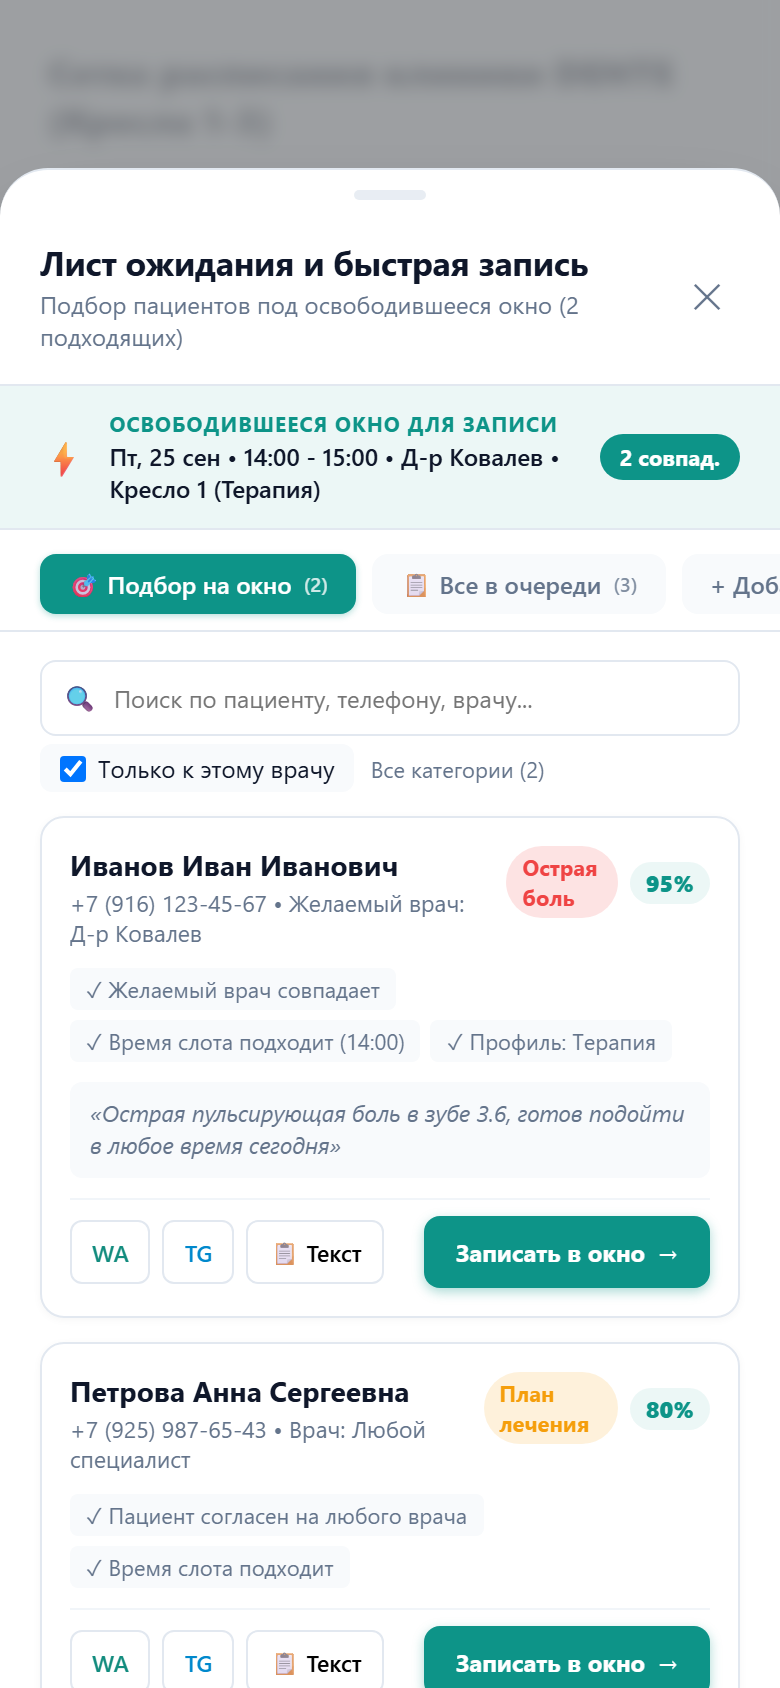
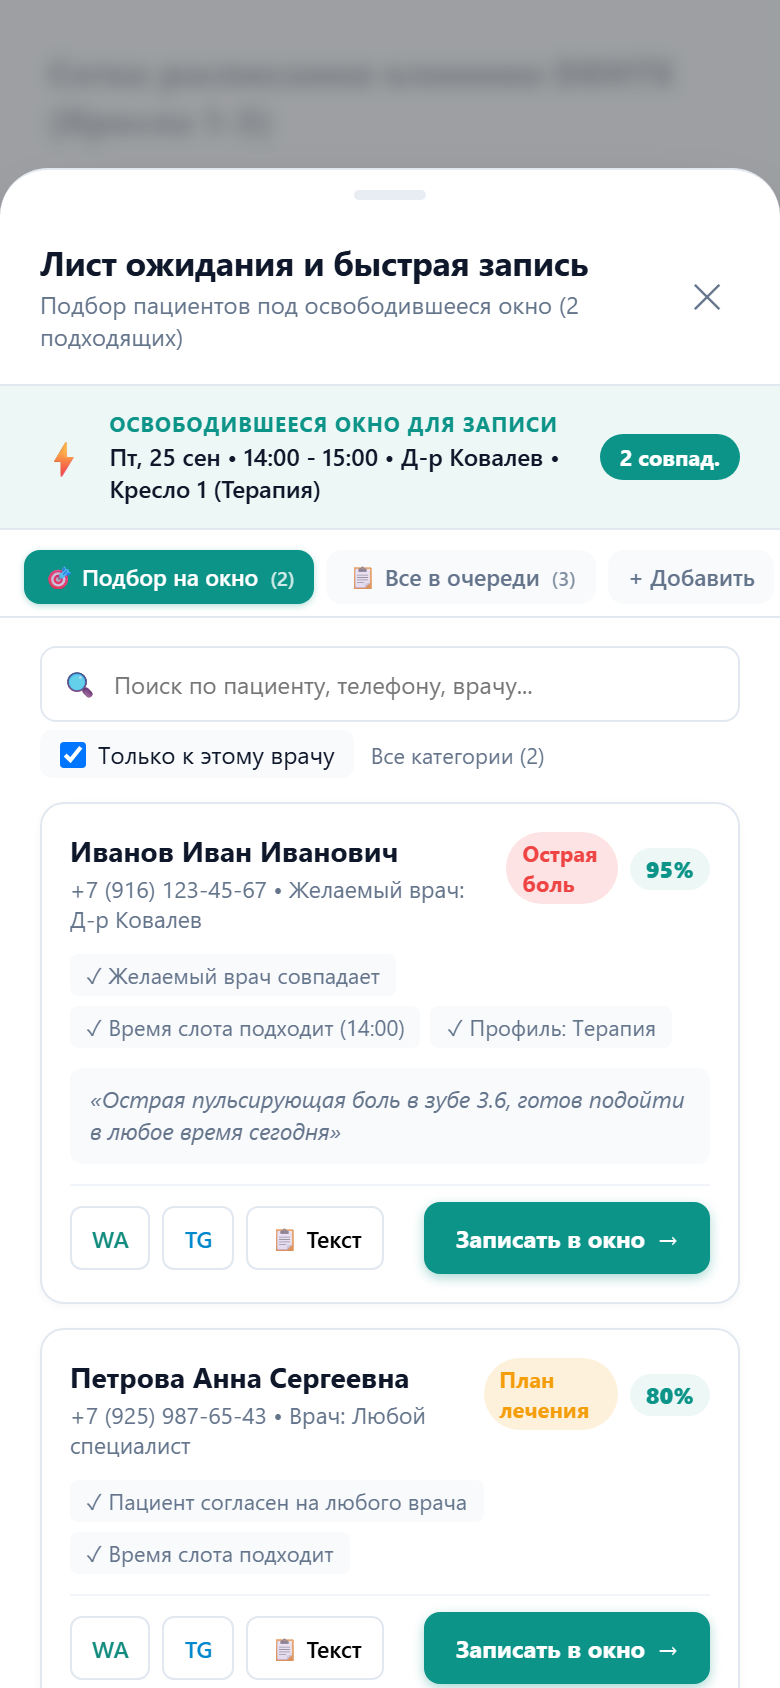
feat(voice): unify dictation with useUnifiedDictation, wire header voice search and 8-state proof
WHY:
- Eliminate ad-hoc raw webkitSpeechRecognition implementations scattered across visit and chairside components that bypassed noise-filtering, RMS analysis, and fallback handlers.
- Wire ubiquitous voice input into global search and Spotlight Command Hub (Ctrl+K) for 1-click clinical routing and dictation anywhere in CRM.
- Decompose and prune bloated SpeechHelpers.ts monolith down to sweet spot <=380 lines per Mandate 8b.
- Provide definitive Red Team 4-state visual proofs for both Spotlight Command Hub and EMK complaints visit section with symmetric 1-click norm controls.

WHAT:
- apps/web/src/utils/SpeechHelpers.ts: pruned non-speech artifacts (CT implants, MPR projections, tax rates) reducing file from 588 to 383 lines.
- apps/web/src/components/visit/emk/EmkComplaintsSection.tsx: replaced ad-hoc speech recognition with useUnifiedDictation({ context: "visit" }); added native symmetric '✓ Жалоб нет' button adhering to Mandate 8e norm filling and fixing touch defect.
- apps/web/src/components/visit/mobileChairside/useChairsideVisitWorkspace.ts: wired useUnifiedDictation for mobile chairside workspace.
- apps/web/src/workspaceShellModules/topBarModules/WorkspaceTopBarCommandHub.tsx: wired btn-header-voice-search button with audio visual pulse indicator and intent routing ('касса', 'расписание', 'пациенты', 'планы', 'настройки', clinical nosology).
[…]

diff --git a/apps/web/src/components/shift/doctorShiftClose/renderDoctorShiftStatementHtml.ts b/apps/web/src/components/shift/doctorShiftClose/renderDoctorShiftStatementHtml.ts
@@ -71,11 +71,11 @@ body { font-family: -apple-system, BlinkMacSystemFont, "Segoe UI", Roboto, sans-
 <tr><td>Списание с лицевых депозитов пациентов</td><td class="num">${depositRub.toLocaleString("ru-RU")} ₽</td></tr>
 <tr style="background: #f8fafc; font-weight: bold;"><td>Итого сданная касса:</td><td class="num">${effectiveTotalCashRub.toLocaleString("ru-RU")} ₽</td></tr>
 </tbody></table>
-<h3>3. Сверка кассы 54-ФЗ и фискальные реквизиты</h3>
+<h3>3. Сверка кассы и фискальные реквизиты</h3>
 <table class="table"><thead><tr><th>Реквизит / Параметр</th><th style="width: 220px; text-align: right;">Значение</th></tr></thead><tbody>
 <tr><td>Кассовый аппарат (ККТ)</td><td class="num">${cashboxName}</td></tr>
 <tr><td>Фискальный Z-отчёт с гашением</td><td class="num">${fiscalDocNumber}</td></tr>
-<tr><td>Реквизиты фискализации (54-ФЗ)</td><td class="num">ФД: 00042 • ФПД: 3829104812 • ФН: 996044030</td></tr>
+<tr><td>Реквизиты фискализации</td><td class="num">ФД: 00042 • ФПД: 3829104812 • ФН: 996044030</td></tr>
 <tr><td>Учётный остаток наличных (по чекам)</td><td class="num">${cashRub.toLocaleString("ru-RU")} ₽</td></tr>
 <tr><td>Фактический остаток наличных (в ящике)</td><td class="num">${countedCashRub.toLocaleString("ru-RU")} ₽</td></tr>
 <tr style="background: #f8fafc; font-weight: bold;"><td>Расхождение кассы:</td><td class="num" style="color: ${isCashBalanced ? "#15803d" : "#b91c1c"};">${cashDifferenceRub.toLocaleString("ru-RU")} ₽ (${isCashBalanced ? "Сверено без расхождений" : "Расхождение"})</td></tr>

diff --git a/apps/web/src/components/documents/primaryIntakePackage/contractSheet.ts b/apps/web/src/components/documents/primaryIntakePackage/contractSheet.ts
@@ -47,7 +47,7 @@ export function renderContractSheet(ctx: IntakeRequisitesContext): string {
 
       <div class="section-title">3. Стоимость услуг и порядок расчетов</div>
       <p>3.1. Стоимость услуг определяется действующим прайс-листом услуг Исполнителя. При первичном обращении до составления расширенной сметы ориентировочная сумма договора составляет 0 (ноль) рублей 00 коп. с оплатой первичного осмотра и диагностических снимков по факту их проведения.</p>
-      <p>3.2. Оплата производится наличными денежными средствами, банковской картой или безналичным расчетом с выдачей кассового чека (Федеральный закон № 54-ФЗ).</p>
+      <p>3.2. Оплата производится наличными денежными средствами, банковской картой или безналичным расчетом с выдачей кассового чека.</p>
 
       <div class="section-title">4. Права и обязанности сторон</div>
       <p>4.1. Пациент обязан предоставить полные и достоверные сведения о состоянии своего здоровья, перенесенных заболеваниях, аллергиях и непереносимости препаратов, соблюдать рекомендации врача и график назначенных приёмов.</p>

diff --git a/apps/web/src/components/schedule/waitlist/WaitlistDrawer.tsx b/apps/web/src/components/schedule/waitlist/WaitlistDrawer.tsx
@@ -196,13 +196,14 @@ export function WaitlistDrawer(props: WaitlistDrawerProps) {
           <button
             type="button"
             onClick={() => state.setActiveTab("add_new")}
-            className={`px-3 py-1.5 text-xs font-semibold rounded-lg transition-all min-h-[36px] flex items-center gap-1.5 whitespace-nowrap ml-auto ${
+            className={`px-3 py-1.5 text-xs font-semibold rounded-lg transition-all min-h-[36px] flex items-center gap-1.5 whitespace-nowrap ml-auto shrink-0 ${
               state.activeTab === "add_new"
                 ? "bg-[var(--teal,#0d9488)] text-white shadow-sm"
                 : "bg-[var(--paper-subtle,#f1f5f9)] text-[var(--text-muted,#64748b)] hover:text-[var(--text,#0f172a)]"
             }`}
           >
-            <span>+ Добавить пациента</span>
+            <span className="hidden sm:inline">+ Добавить пациента</span>
+            <span className="sm:hidden">+ Запись</span>
           </button>
         </div>
 

diff --git a/apps/web/src/components/finance/__tests__/cashierAutonomySoloDoctorWave310.test.tsx b/apps/web/src/components/finance/__tests__/cashierAutonomySoloDoctorWave310.test.tsx
@@ -242,7 +242,7 @@ describe("Wave 310: UI Rendering & Button State Autonomy (Mandates 8e, 8n)", () 
 
 		// Badge confirming INN is not required for physical persons
 		assert.ok(html.includes('data-testid="inn-physical-not-required-badge"'), "Must render non-required badge");
-		assert.ok(html.includes("По 54-ФЗ для физлиц не требуется"));
+		assert.ok(html.toLowerCase().includes("для физлиц не требуется") || html.includes("Для пациентов-физлиц ИНН не требуется"));
 
 		// Physical INN input is rendered with placeholder stating it is not required
 		assert.ok(html.includes('data-testid="input-buyer-inn-physical"'));

diff --git a/apps/web/src/components/billing/ReceiptPreview.tsx b/apps/web/src/components/billing/ReceiptPreview.tsx
@@ -1,9 +1,9 @@
 /**
- * ReceiptPreview.tsx — 54-FZ Thermal Receipt & Printable Sales Slip (80mm Tape & A4).
+ * ReceiptPreview.tsx — Thermal Receipt & Printable Sales Slip (80mm Tape & A4).
  * Decomposed into ./receiptPreview/ in strict compliance with Mandate 8b (<= 120 lines facade).
  *
  * Governed by:
- * - 54-ФЗ (ФФД 1.2): requisites, VAT exemption, FNS verification QR code.
+ * - Cash & Fiscal standards: mandatory requisites, VAT exemption, FNS verification QR code.
  * - Mandate 8d pt 4: WCAG AAA contrast, deep black on white tape in both Light and Dark themes.
  * - Mandate 8e: Doctor & Cashier autonomy (instant 1-click printing, zero blocker dialogs).
  */

diff --git a/apps/web/src/components/marketing/MarketingSourcesCardsGrid.tsx b/apps/web/src/components/marketing/MarketingSourcesCardsGrid.tsx
@@ -29,10 +29,10 @@ export function MarketingSourcesCardsGrid({ metrics, onSyncWithCrm }: MarketingS
 						type="button"
 						onClick={onSyncWithCrm}
 						className="secondary-button h-8 min-h-[32px] px-2.5 rounded-lg text-xs font-semibold inline-flex items-center gap-1"
-						title="Пересчитать выручку по чекам 54-ФЗ"
+						title="Пересчитать выручку по кассовым чекам"
 					>
 						<RefreshCw size={12} />
-						<span>Сверить с чеками 54-ФЗ</span>
+						<span>Сверить с кассовыми чеками</span>
 					</button>
 				)}
 			</div>

diff --git a/apps/web/src/components/shift/doctorShiftClose/DoctorShiftCloseReconciliationCard.tsx b/apps/web/src/components/shift/doctorShiftClose/DoctorShiftCloseReconciliationCard.tsx
@@ -138,7 +138,7 @@ export const DoctorShiftCloseReconciliationCard: React.FC<DoctorShiftCloseReconc
 						onChange={(e) => onSetPrintZReport(e.target.checked)}
 						className="rounded border-[var(--line,#cbd5e1)] text-[var(--teal,#0d9488)] focus:ring-[var(--teal,#0d9488)] w-4 h-4"
 					/>
-					<span>Снять фискальный Z-отчёт с гашением (54-ФЗ)</span>
+					<span>Снять Z-отчёт с закрытием смены</span>
 				</label>
 				<label className="flex items-center gap-2 cursor-pointer select-none text-[var(--ink,#0f172a)] font-medium">
 					<input

diff --git a/apps/web/src/components/portal/patientCabinet/documents/documentsDetailedReceipt.ts b/apps/web/src/components/portal/patientCabinet/documents/documentsDetailedReceipt.ts
@@ -31,7 +31,7 @@ export function generateDetailedReceiptHtml(
 		)
 		.join("");
 
-	return `<!DOCTYPE html><html lang="ru"><head><meta charset="UTF-8"><title>Кассовый чек 54-ФЗ № ${invoice.invoiceNumber}</title>
+	return `<!DOCTYPE html><html lang="ru"><head><meta charset="UTF-8"><title>Кассовый чек № ${invoice.invoiceNumber}</title>
 <style>
 @page { size: A4 portrait; margin: 15mm; }
 body { font-family: -apple-system, BlinkMacSystemFont, "Segoe UI", Roboto, sans-serif; font-size: 12px; color: #0f172a; margin: 0; padding: 20px; line-height: 1.4; }

diff --git a/apps/web/src/components/finance/fastCheckoutModalModules/FastCheckoutPayerTypePanel.tsx b/apps/web/src/components/finance/fastCheckoutModalModules/FastCheckoutPayerTypePanel.tsx
@@ -47,7 +47,7 @@ export const FastCheckoutPayerTypePanel: React.FC<
 							className="inline mr-1 shrink-0 text-[var(--teal)]"
 						/>
 						Для пациентов-физлиц ИНН не требуется{" "}
-						<span className="sr-only">По 54-ФЗ для физлиц не требуется (ИНН не требуется для физических лиц)</span>
+						<span className="sr-only">Для физических лиц ИНН не требуется</span>
 					</span>
 				)}
 			</div>

diff --git a/apps/web/src/components/marketing/MarketingSourceCard.tsx b/apps/web/src/components/marketing/MarketingSourceCard.tsx
@@ -38,7 +38,7 @@ export function MarketingSourceCard({ metric }: MarketingSourceCardProps) {
 			</div>
 
 			<div className="my-1">
-				<span className="text-[10.5px] uppercase font-bold text-[var(--muted)] block">Выручка по чекам 54-ФЗ</span>
+				<span className="text-[10.5px] uppercase font-bold text-[var(--muted)] block">Выручка по кассовым чекам</span>
 				<strong className="marketing-source-card-revenue">{revRub} ₽</strong>
 			</div>
 

diff --git a/apps/api/src/routes/cashbox/cashboxRefundRoutes.ts b/apps/api/src/routes/cashbox/cashboxRefundRoutes.ts
@@ -129,7 +129,7 @@ export async function registerCashboxRefundRoutes(app: FastifyInstance): Promise
 					amountRub,
 					balanceBeforeRub: balanceBefore,
 					balanceAfterRub: balanceAfter,
-					reasonText: reasonText || "Возврат денежных средств покупателю (54-ФЗ)",
+					reasonText: reasonText || "Возврат денежных средств покупателю",
 					operatorId: operatorId ?? null,
 				})
 				.returning();

diff --git a/apps/web/src/components/billing/CashRegisterCheckoutModal.tsx b/apps/web/src/components/billing/CashRegisterCheckoutModal.tsx
@@ -2,7 +2,7 @@
  * apps/web/src/components/billing/CashRegisterCheckoutModal.tsx
  *
  * Single Source of Truth (SSOT) Compatibility Facade:
- * Canonical 54-FZ checkout modal delegating directly to PaymentModal.
+ * Canonical checkout modal delegating directly to PaymentModal.
  *
  * Governed by:
  * - Mandate 8za (Anti-Duplicates SSOT): Single Source of Truth is PaymentModal.
